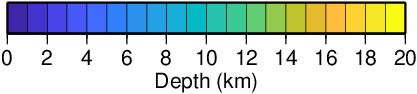
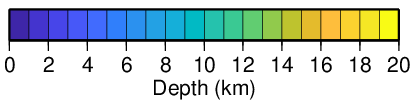
added depth scale bar

diff --git a/web/js/cfm_query.js b/web/js/cfm_query.js
@@ -604,8 +604,8 @@ function getAllEarthQuakesByChunk(quake_type,quake_meta) {
    var total = quake_meta['total'];
    var chunk_step = Math.ceil(total / data_segment_count);
    window.console.log(">> Chunk_step ="+chunk_step+ " total "+total+" > "+(chunk_step *data_segment_count));
-//   _getAllQuakesByChunk(quake_type, 0, data_segment_count, chunk_step);
- _getAllQuakesByChunk(quake_type, 0, 2, 10);
+   _getAllQuakesByChunk(quake_type, 0, data_segment_count, chunk_step);
+//_getAllQuakesByChunk(quake_type, 0, 2, 1000);
 }
 
 function _getAllQuakesByChunk(quake_type, current_chunk, total_chunk, step) {
@@ -629,7 +629,7 @@ function _getAllQuakesByChunk(quake_type, current_chunk, total_chunk, step) {
               showQuakePoints(EQ_FOR_DEPTH,eqarray); // show it after adding last chunk
               doneQuakeCounter();
               } else{
-                add2QuakePointsChunk(eqarray,next_chunk, total_chunk, step);
+                add2QuakePointsChunk(quake_type, eqarray,next_chunk, total_chunk, step);
             }
         }
     };

diff --git a/web/js/cfm_ui.js b/web/js/cfm_ui.js
@@ -21,7 +21,7 @@ window.console.log("STEP..");
    if(seisimicity_loaded == false) {
      showSeisimicityKey("depth");
      initForPixiOverlay(); 
-     getAllQuakes();
+     getAllQuakes(quake_type_Hauksson);
      seisimicity_loaded = true;
      $('#seisimicitySelect').css("display", "");
      $('#quakesBtn').css("display", "none");
@@ -256,7 +256,7 @@ function removeKey() {
 // depth, mag, time
 function showSeisimicityKey(type) {
     if(type == "depth") {
-        showColorLegend("depth-color.png");
+        showColorLegend("depth_color.png");
         return;
     }
     if(type == "mag") {

diff --git a/web/js/cfm_util.js b/web/js/cfm_util.js
@@ -988,10 +988,10 @@ function add2QuakePoints(eqarray) {
     });
 }
 
-function add2QuakePointsChunk(eqarray, next_chunk, total_chunk, step) {
+function add2QuakePointsChunk(quake_type, eqarray, next_chunk, total_chunk, step) {
     add2QuakePoints(eqarray);
     // get next chunk
-    _getAllQuakesByChunk(next_chunk, total_chunk, step);
+    _getAllQuakesByChunk(quake_type, next_chunk, total_chunk, step);
 }
 // default showing depth
 function showQuakePoints(forType, eqarray) {

diff --git a/web/js/cfm_pixi.js b/web/js/cfm_pixi.js
@@ -348,7 +348,7 @@ function makePixiOverlayLayer(forType) {
 
         var origin = pixi_project([mapcenter['lat'], mapcenter['lng']]);
         initialScale = invScale / 16; // initial size of the marker
-//        initialScale = invScale / 2; // initial size of the marker
+//initialScale = invScale / 2; // initial size of the marker
 
 window.console.log("FFFirst time making this pixiOverlay,"+forType+" initial scale "+initialScale +" mapzoom" + mapzoom);
 

diff --git a/web/js/cfm_leaflet.js b/web/js/cfm_leaflet.js
@@ -168,7 +168,7 @@ function setup_viewer()
        this._div.innerHTML="";
        return;
      }
-     this._div.innerHTML='<img src="./img/'+param+'" style="width:100px; margin-left:-5px; border:2px solid green" >';
+     this._div.innerHTML='<img src="./img/'+param+'" style="width:200px; margin-left:-5px;" >';
   }
 
   mylegend.addTo(mymap);
